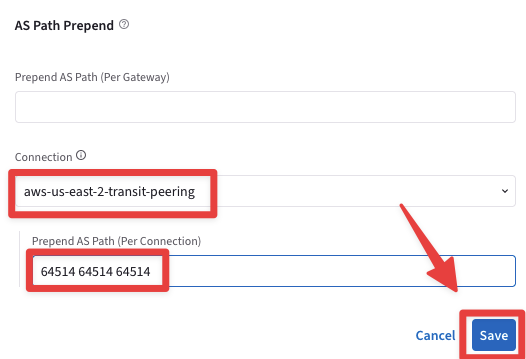
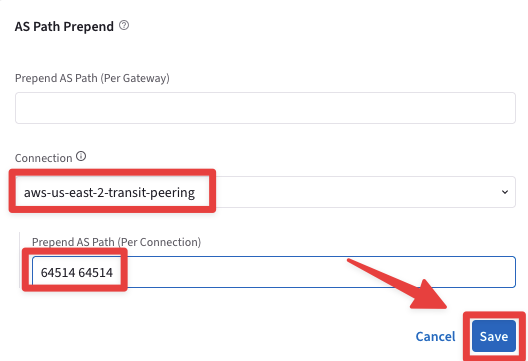
update for pro

diff --git a/ace_pro/docs/lab8.md b/ace_pro/docs/lab8.md
@@ -101,7 +101,7 @@ align: center
 Manage Transit Gateway Attachment
 ```
 
-Click on the `"+Attachment"` button and do not forget to also clicking on the **Save** button.
+Click on the `"+Attachment"` button.
 
 ```{figure} images/lab8-edge10.png
 ---
@@ -521,7 +521,7 @@ align: center
 
 From the **_aws-us-east-2-transit_** perspective, the destination route `172.16.1.0` is far just one single AS (i.e. 64514)
 
-Now let's apply the route manipulation. Go to **CoPilot > Cloud fabric > Gateways > Transit Gateways** and click on the **_aws-us-east-2-transit_** GW.
+Now let's apply the route manipulation. Go to **CoPilot > Cloud Fabric > Gateways > Transit Gateways** and click on the **_aws-us-east-2-transit_** GW.
 
 ```{figure} images/lab8-edgedouble30.png
 ---
@@ -530,7 +530,7 @@ align: center
 aws-us-east-2-transit
 ```
 
-Select the `"Settings"` tab and then expand the `"Border Gateway Protocol (BGP)"` section, then under the `AS Path Prepend` widget,  select the `gcp-us-central1-transit-peering` connection and type **three times** the AS number 64513. 
+Select the `"Settings"` tab and then expand the `"Border Gateway Protocol (BGP)"` section, then under the `AS Path Prepend` widget,  select the `gcp-us-central1-transit-peering` connection and type **two times** the AS number 64513. 
 
 Of course, then click on **Save**.
 
@@ -552,7 +552,7 @@ align: center
 gcp-us-central1-transit
 ```
 
-Select the `"Settings"` tab and then expand the `"Border Gateway Protocol (BGP)"` section, then under the `AS Path Prepend` widget select the `aws-us-east-2-transit-peering` connection and type **three times** the AS number 64514. 
+Select the `"Settings"` tab and then expand the `"Border Gateway Protocol (BGP)"` section, then under the `AS Path Prepend` widget select the `aws-us-east-2-transit-peering` connection and type **two times** the AS number 64514. 
 
 Click on **Save** to apply the change!
 
@@ -620,9 +620,9 @@ align: center
 6 Hops
 ```
 
-Now go back to **CoPilot > Cloud Fabric > Gateways > Transit Gateways** and click on the **_aws-us-east-2-transit_** GW, then select the `"Route DB"` tab and then once again, on the right-hand side, type `172.16.1.0/24` inside the Search field.
+Now go back to **CoPilot > Cloud Fabric > Gateways > Transit Gateways** and click on the **_aws-us-east-2-transit_** GW, then select the `"Route DB"` tab and then once again, on the right-hand side, type `172.16.1.0` inside the Search field.
 
-This time the AS Path Length will turn out being equal to 2. 
+This time the AS Path Length will turn out being equal to **2**. 
 
 <ins>The best path is via the Edge!</ins>
 

diff --git a/ace_pro/docs/lab2.md b/ace_pro/docs/lab2.md
@@ -347,7 +347,7 @@ Only one Spoke Gateway will be deployed in VPC **gcp-us-central1-spoke1**.
 - **Name:** <span style='color:#479608'>gcp-us-central1-spoke1</span>
 - **Cloud:** <span style='color:#479608'>GCP</span>
 - **Account:** <span style='color:#479608'>gcp-account</span>
-- **VPC:** <span style='color:#479608'>gcp-us-central1-spoke1 (Make sure you don't select gcp-us-**west2**-spoke1 VPC)</span>
+- **VPC:** <span style='color:#479608'>gcp-us-**central1**-spoke1 (Make sure you don't select gcp-us-**west2**-spoke1 VPC)</span>
 - **Instance Size:** <span style='color:#479608'>n1-standard-1</span>
 - **High Performance Encryption:** <span style='color:#479608'>**Off**</span>
 - **Attach to Subnet:** <span style='color:#479608'>gcp-us-central1-spoke1-sub1</span>
